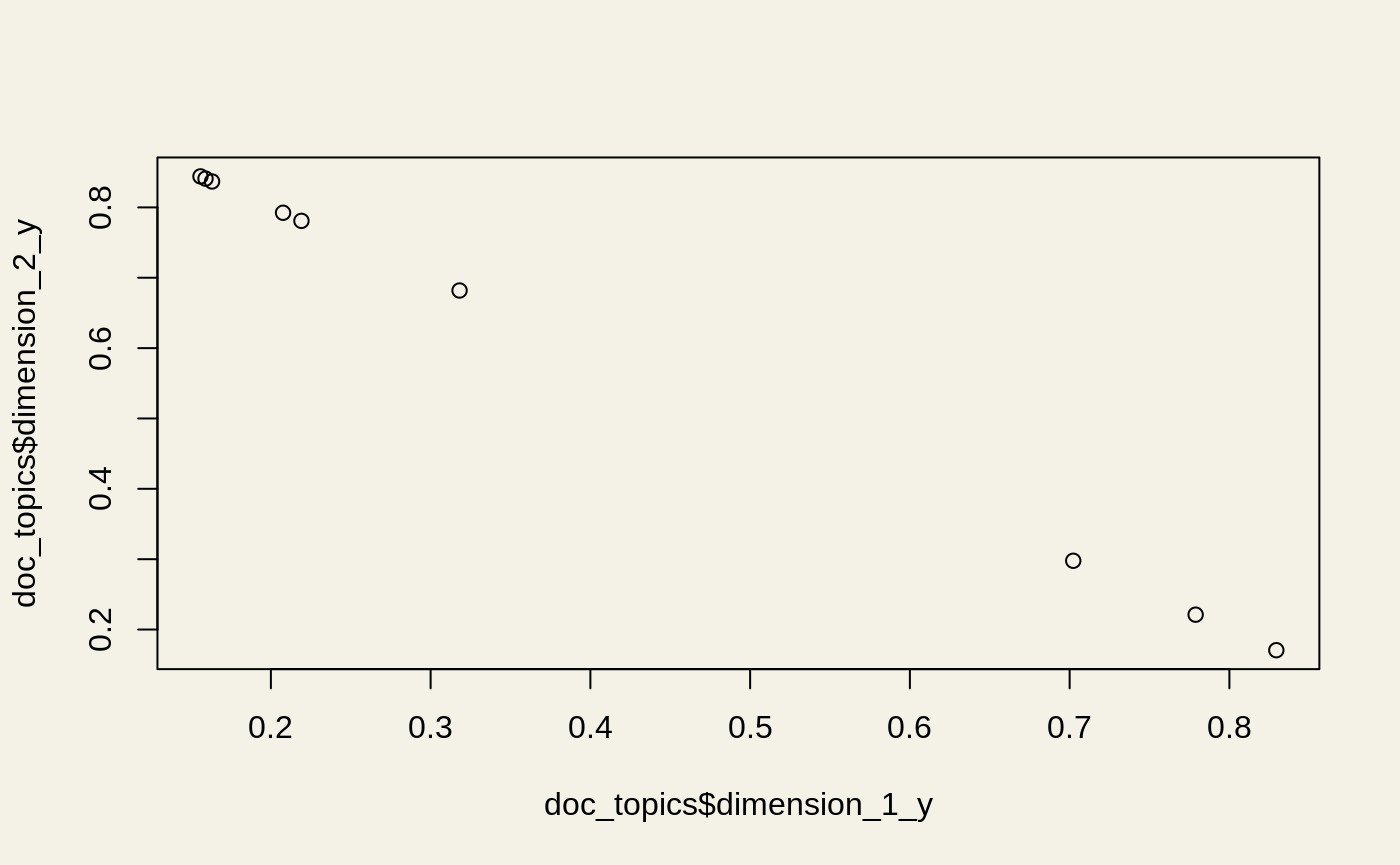
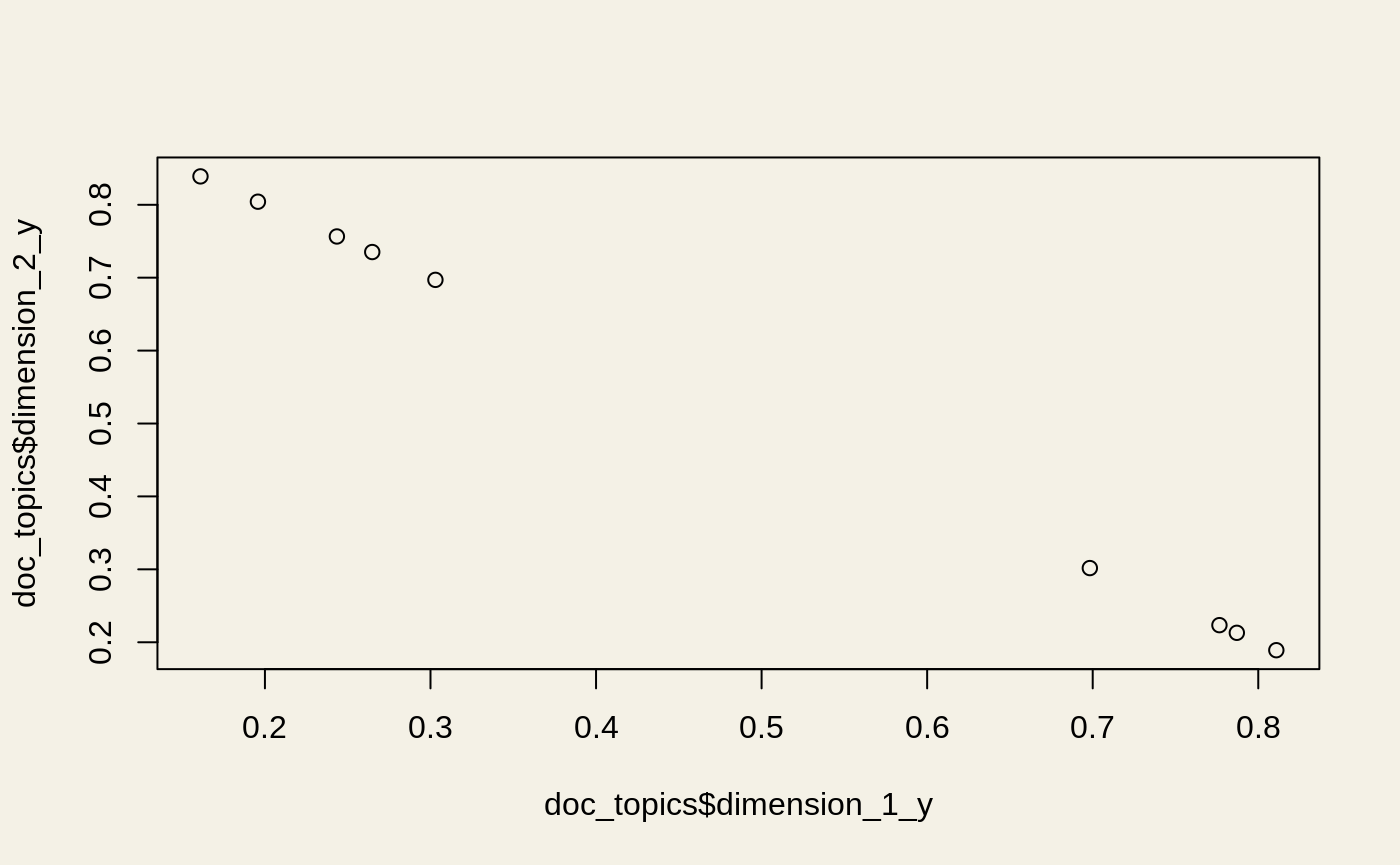
homepage redone

diff --git a/docs/index.html b/docs/index.html
@@ -176,7 +176,7 @@ topics &lt;-<span class="st"> </span>lda<span class="op">$</span><span class="kw
 <span class="co">#&gt; [1] 0</span>
 <span class="co">#&gt; </span>
 <span class="co">#&gt; [[1]][[2]]</span>
-<span class="co">#&gt; [1] "0.151*\"eps\" + 0.123*\"user\" + 0.112*\"interface\" + 0.099*\"trees\" + 0.095*\"human\" + 0.090*\"graph\" + 0.089*\"response\" + 0.087*\"time\" + 0.082*\"survey\" + 0.074*\"minors\""</span>
+<span class="co">#&gt; [1] "0.158*\"trees\" + 0.146*\"user\" + 0.136*\"graph\" + 0.102*\"interface\" + 0.098*\"eps\" + 0.085*\"minors\" + 0.081*\"response\" + 0.078*\"time\" + 0.060*\"human\" + 0.056*\"survey\""</span>
 <span class="co">#&gt; </span>
 <span class="co">#&gt; </span>
 <span class="co">#&gt; [[2]]</span>
@@ -184,12 +184,13 @@ topics &lt;-<span class="st"> </span>lda<span class="op">$</span><span class="kw
 <span class="co">#&gt; [1] 1</span>
 <span class="co">#&gt; </span>
 <span class="co">#&gt; [[2]][[2]]</span>
-<span class="co">#&gt; [1] "0.143*\"graph\" + 0.137*\"trees\" + 0.120*\"user\" + 0.103*\"minors\" + 0.097*\"survey\" + 0.094*\"time\" + 0.092*\"response\" + 0.088*\"human\" + 0.077*\"interface\" + 0.050*\"eps\""</span></code></pre></div>
+<span class="co">#&gt; [1] "0.121*\"survey\" + 0.118*\"human\" + 0.109*\"graph\" + 0.102*\"time\" + 0.099*\"response\" + 0.099*\"user\" + 0.096*\"minors\" + 0.089*\"trees\" + 0.085*\"eps\" + 0.081*\"interface\""</span></code></pre></div>
 <p>We can then use our model to transform our corpus and then the document topic matrix.</p>
 <div class="sourceCode"><pre class="sourceCode r"><code class="sourceCode r">corpus_wrapped &lt;-<span class="st"> </span><span class="kw"><a href="reference/wrap.html">wrap</a></span>(lda, corpus)
 doc_topics &lt;-<span class="st"> </span><span class="kw"><a href="reference/get_documents_topics.html">get_docs_topics</a></span>(corpus_wrapped)
 <span class="kw"><a href="https://www.rdocumentation.org/packages/graphics/topics/plot">plot</a></span>(doc_topics<span class="op">$</span>dimension_<span class="dv">1</span>_y, doc_topics<span class="op">$</span>dimension_<span class="dv">2</span>_y)</code></pre></div>
 <p><img src="index_files/figure-html/unnamed-chunk-4-1.png" width="700"></p>
+<p>The plot correctly identifies two topics/clusters. As stated in table 2 from <a href="http://www.cs.bham.ac.uk/~pxt/IDA/lsa_ind.pdf">this paper</a>, the example corpus (<code><a href="https://www.rdocumentation.org/packages/utils/topics/data">data(corpus)</a></code>) essentially has two classes of documents. First five are about human-computer interaction and the other four are about graphs.</p>
 </div>
   </div>
 
